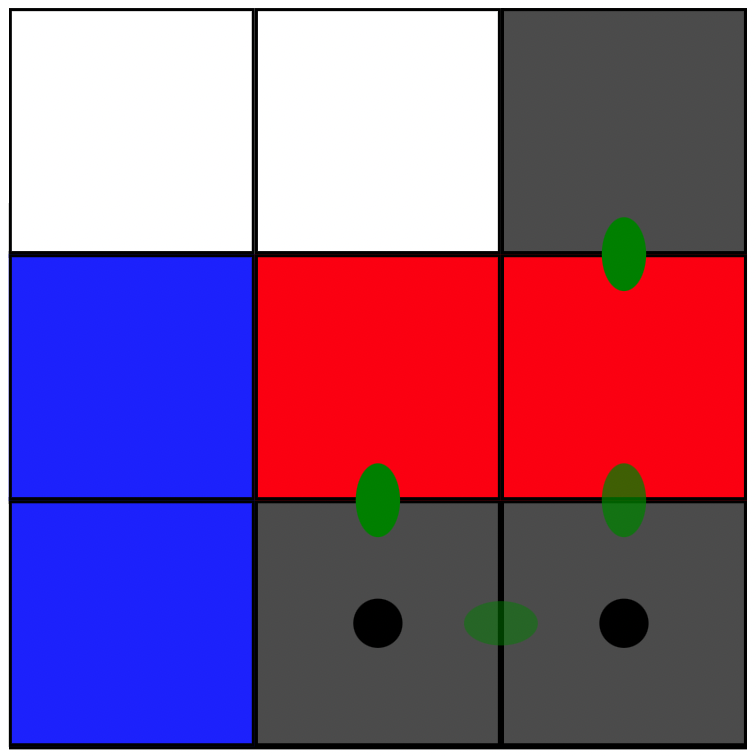
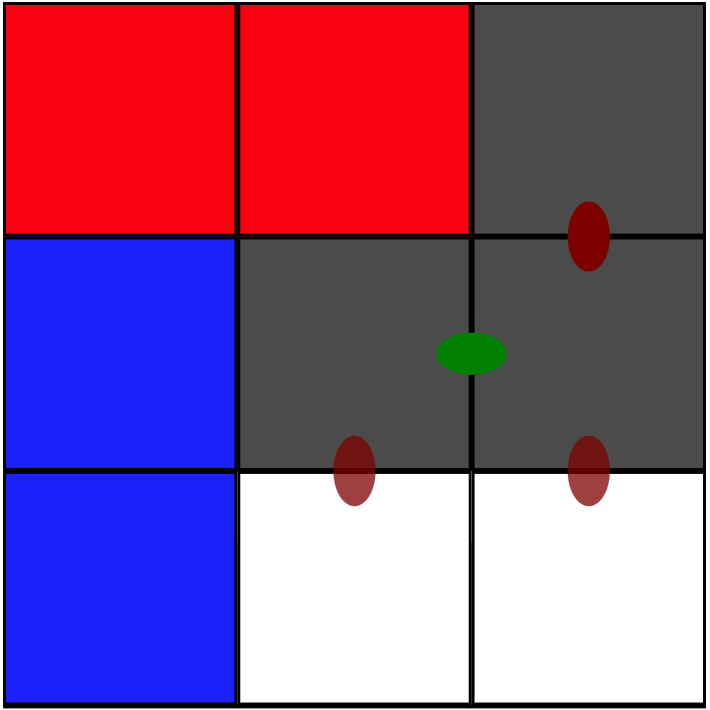
v5.0.0-alpha.181: Fix Arrows. Redo thumbnails.

diff --git a/src/components/units/AppGameBodyBoardRegular2DImages.vue b/src/components/units/AppGameBodyBoardRegular2DImages.vue
@@ -6,39 +6,36 @@
     :viewBox="'-2 -2 ' + (scaledWidth + 4) + ' ' + (scaledHeight + 4)" 
     :data-turn="richPositionData.turn">
 
-    <defs>
-      <template v-for="(value, i) in ['', 'win', 'draw', 'tie', 'lose']" :key="i">
-        <marker
-          :id="'app-game-board-default-arrow-marker' + (value ? '-' + value : '')"
-          viewBox="0 0 10 10"
-          refX="5"
-          refY="5"
-          markerWidth="4"
-          markerHeight="4"
-          orient="auto-start-reverse">
-            <path d="M 0 1 L 10 5 L 0 9 z" />
-        </marker>
-      </template>
-    </defs>
-
     <!-- Draw Background Image -->
     <image v-if="backgroundImagePath != ''"
-        :width="scaledWidth"
-        :height="scaledHeight"
-        :href="getImageSource(backgroundImagePath)" />
+      :width="scaledWidth"
+      :height="scaledHeight"
+      :href="getImageSource(backgroundImagePath)" />
+
+    <!-- Draw M-type (arrow) moves below pieces. -->
+    <g v-if="piecesOverArrows"> 
+      <g v-for="(arrow, i) in richPositionData.arrows "
+        :key="'arrow' + i">
+        <polyline
+          :points="formatArrowPolylinePoints(arrow, arrowThickness)"
+          :class="'app-game-board-default-arrow ' + getBoardMoveElementHintClass(arrow.move)"
+          @click="!isComputerTurn && store.dispatch(actionTypes.runMove, { move: arrow.move.str })"
+          :style="{
+            opacity: options.showNextMoveHints && options.showNextMoveDeltaRemotenesses ? arrow.move.hintOpacity : 1,
+          }"/>
+      </g>
+    </g>
 
     <!-- Draw Pieces on Board. -->
     <g v-for="(cell, i) in richPositionData.board"
-      :key="'cell' + i"
-      :set="(coords = getRegular2DBoardCenterCoords(i))">
-      <image
-            v-if="cell.piece != '-' && cell.piece != '*' && Object.keys(pieces).includes(cell.piece)"
-            :id="'piece' + i"
-            :x="(coords[0] - 0.5 * pieces[cell.piece].scale) * scaledWidth / backgroundGeometry[0]"
-            :y="(coords[1] - 0.5 * pieces[cell.piece].scale) * scaledWidth / backgroundGeometry[0]"
-            :width="(pieces[cell.piece].scale) * scaledWidth / backgroundGeometry[0]"
-            :height="(pieces[cell.piece].scale) * scaledWidth / backgroundGeometry[0]"
-            :href="getImageSource(pieces[cell.piece].image)" />
+      :key="'cell' + i">
+      <image v-if="cell.piece != '-' && cell.piece != '*' && Object.keys(pieces).includes(cell.piece)"
+        :id="'piece' + i"
+        :x="centers[i][0] - 0.5 * pieces[cell.piece].scale * scaledWidth / backgroundGeometry[0]"
+        :y="centers[i][1] - 0.5 * pieces[cell.piece].scale * scaledWidth / backgroundGeometry[0]"
+        :width="pieces[cell.piece].scale * scaledWidth / backgroundGeometry[0]"
+        :height="pieces[cell.piece].scale * scaledWidth / backgroundGeometry[0]"
+        :href="getImageSource(pieces[cell.piece].image)" />
     </g>
  
     <!-- Draw Foreground Image -->
@@ -49,62 +46,59 @@
 
     <!-- Draw A-type Moves. -->
     <g v-for="(cell, i) in richPositionData.board" 
-      :key="'cell' + i"
-      :set="(coords = getRegular2DBoardCenterCoords(i))">
+      :key="'cell' + i">
       <g v-if="cell.move">
 
         <!-- If no move token specified, use default move token (a circle). -->
-        <circle
-          v-if="cell.token == '-'"
-            :cx="coords[0] * scaledWidth / backgroundGeometry[0]"
-            :cy="coords[1] * scaledWidth / backgroundGeometry[0]"
-            :r="2"
-            :class="'app-game-board-default-token ' + (cell.move ? 'move ' : '') + getBoardMoveElementHintClass(cell.move)"
-            @click="!isComputerTurn && store.dispatch(actionTypes.runMove, { move: cell.move.str })"
-            :style="{ opacity: options.showNextMoveHints && options.showNextMoveDeltaRemotenesses ? cell.move.hintOpacity : 1 }">
+        <circle v-if="cell.token == '-'"
+            :cx="centers[i][0]"
+            :cy="centers[i][1]"
+            :r="defaultMoveTokenRadius"
+            :class="'app-game-board-token ' + (cell.move ? 'move ' : '') + getBoardMoveElementHintClass(cell.move)"
+            :style="'--xorigin: ' + centers[i][0] + 'px ' + centers[i][1] + 'px; opacity: ' + (options.showNextMoveHints && options.showNextMoveDeltaRemotenesses ? cell.move.hintOpacity : 1) + ';'"
+            @click="!isComputerTurn && store.dispatch(actionTypes.runMove, { move: cell.move.str })">
               {{ cell.token }}
         </circle>
         
         <!-- Else use the svg corresponding to the move token. If no svg is mapped to the character, skip. -->
-        <image
-          v-else-if="Object.keys(pieces).includes(cell.token)"
-            :x="(coords[0] - 0.5 * pieces[cell.token].scale) * scaledWidth / backgroundGeometry[0]"
-            :y="(coords[1] - 0.5 * pieces[cell.token].scale) * scaledWidth / backgroundGeometry[0]"
-            :width="(pieces[cell.token].scale) * scaledWidth / backgroundGeometry[0]"
-            :height="(pieces[cell.token].scale) * scaledWidth / backgroundGeometry[0]"
+        <image v-else-if="Object.keys(pieces).includes(cell.token)"
+            :x="centers[i][0] - 0.5 * pieces[cell.token].scale * scaledWidth / backgroundGeometry[0]"
+            :y="centers[i][1] - 0.5 * pieces[cell.token].scale * scaledWidth / backgroundGeometry[0]"
+            :width="pieces[cell.token].scale * scaledWidth / backgroundGeometry[0]"
+            :height="pieces[cell.token].scale * scaledWidth / backgroundGeometry[0]"
             :href="getImageSource(pieces[cell.token].image)"
-            :class="'app-game-board-image-token ' + (cell.move ? 'move ' : '') + getBoardMoveElementHintClass(cell.move)"
-            :style="'--xorigin: ' + (coords[0] * scaledWidth / backgroundGeometry[0]) + 'px ' + (coords[1] * scaledWidth / backgroundGeometry[0]) + 'px; opacity: ' + (options.showNextMoveHints && options.showNextMoveDeltaRemotenesses ? cell.move.hintOpacity : 1) + ';'"
+            :class="'app-game-board-token ' + (cell.move ? 'move ' : '') + getBoardMoveElementHintClass(cell.move)"
+            :style="'--xorigin: ' + centers[i][0] + 'px ' + centers[i][1] + 'px; opacity: ' + (options.showNextMoveHints && options.showNextMoveDeltaRemotenesses ? cell.move.hintOpacity : 1) + ';'"
             @click="!isComputerTurn && store.dispatch(actionTypes.runMove, { move: cell.move.str })">
               {{ cell.token }}
         </image>
       </g>
-      
     </g>
 
-    <!-- Draw M-type (arrow) moves. -->
-    <g v-for="(arrow, i) in richPositionData.arrows"
-      :key="'arrow' + i">
-      <polyline
-        :points="formatArrowPolylinePoints(arrow, scaledWidth / backgroundGeometry[0])"
-        :class="'app-game-board-default-arrow ' + getBoardMoveElementHintClass(arrow.move)"
-        @click="!isComputerTurn && store.dispatch(actionTypes.runMove, { move: arrow.move.str })"
-        :style="{
-          opacity: options.showNextMoveHints && options.showNextMoveDeltaRemotenesses ? arrow.move.hintOpacity : 1,
-        }"
-        :marker-end="getHintArrowMarker(arrow.move)" />
+    <!-- Draw M-type (arrow) moves on top of pieces. -->
+    <g v-if="!piecesOverArrows"> 
+      <g v-for="(arrow, i) in richPositionData.arrows "
+        :key="'arrow' + i">
+        <polyline
+          :points="formatArrowPolylinePoints(arrow, arrowThickness)"
+          :class="'app-game-board-default-arrow ' + getBoardMoveElementHintClass(arrow.move)"
+          @click="!isComputerTurn && store.dispatch(actionTypes.runMove, { move: arrow.move.str })"
+          :style="{
+            opacity: options.showNextMoveHints && options.showNextMoveDeltaRemotenesses ? arrow.move.hintOpacity : 1,
+          }"/>
+      </g>
     </g>
 
-    <!-- Draw L-type (arrow) moves. -->
+    <!-- Draw L-type (line) moves. -->
     <g v-for="(line, i) in richPositionData.lines"
       :key="'line' + i">
       <line
-        :x1="centers[line.from][0] * scaledWidth / backgroundGeometry[0]"
-        :y1="centers[line.from][1] * scaledWidth / backgroundGeometry[0]"
-        :x2="centers[line.to][0] * scaledWidth / backgroundGeometry[0]"
-        :y2="centers[line.to][1] * scaledWidth / backgroundGeometry[0]"
+        :x1="centers[line.from][0]"
+        :y1="centers[line.from][1]"
+        :x2="centers[line.to][0]"
+        :y2="centers[line.to][1]"
         :stroke-linecap="'round'"
-        :stroke-width="0.9"
+        :stroke-width="lineWidth"
         :class="'app-game-board-default-arrow ' + getBoardMoveElementHintClass(line.move)"
         @click="!isComputerTurn && store.dispatch(actionTypes.runMove, { move: line.move.str })"
         :style="{
@@ -169,7 +163,11 @@
   const imagePathPrefix = "../../models/images/svg/";
   const backgroundImagePath = theTheme.backgroundImage || "";
   const foregroundImagePath = theTheme.foregroundImage || "";
-  const centers = theTheme.centers;
+  const piecesOverArrows = theTheme.piecesOverArrows || false;
+  const arrowThickness = (theTheme.arrowThickness * scaledWidth / backgroundGeometry[0] / 2) || 0.75;
+  const lineWidth = theTheme.lineWidth || 0.9;
+  const defaultMoveTokenRadius = (theTheme.defaultMoveTokenRadius * scaledWidth / backgroundGeometry[0]) || 2;
+  const centers = theTheme.centers.map((a: [number, number]) => a.map((b: number) => b * scaledWidth / backgroundGeometry[0]));
   const pieces = theTheme.pieces;
   // Probably don't want ot reimport every time.
   const gimages = import.meta.globEager("../../models/images/svg/**/*");
@@ -222,19 +220,15 @@
         }
       }
       
-      const getRegular2DBoardCenterCoords = (i: number): [number, number] => {
-        return centers[i];
-      };
-      
       const computeSquaredLength = (ax: number, ay: number, bx: number, by: number): number => {
         return Math.pow(ax - bx, 2) + Math.pow(ay - by, 2);
       };
 
       const compareArrowSquaredLength = (a: GDefaultRegular2DBoardArrow, b: GDefaultRegular2DBoardArrow): number => {
-        const aFromCoords = getRegular2DBoardCenterCoords(a.from);
-        const aToCoords = getRegular2DBoardCenterCoords(a.to);
-        const bFromCoords = getRegular2DBoardCenterCoords(b.from);
-        const bToCoords = getRegular2DBoardCenterCoords(b.to);
+        const aFromCoords = centers[a.from];
+        const aToCoords = centers[a.to];
+        const bFromCoords = centers[b.from];
+        const bToCoords = centers[b.to];
         return computeSquaredLength(bFromCoords[0], bFromCoords[1], bToCoords[0], bToCoords[1]) - computeSquaredLength(aFromCoords[0], aFromCoords[1], aToCoords[0], aToCoords[1]);
       };
 
@@ -254,34 +248,34 @@
     }
   });
 
-  const getRegular2DBoardCenterCoords = (i: number): [number, number] => {
-    return centers[i];
-  };
-
-  const formatArrowPolylinePoints = (arrow: GDefaultRegular2DBoardArrow, multiplier: number, startOffset: number = 2, endOffset: number = 3): string => {
-    let fromCoords = getRegular2DBoardCenterCoords(arrow.from).map((a: number) => (a) * multiplier);
-    let toCoords = getRegular2DBoardCenterCoords(arrow.to).map((a: number) => (a) * multiplier);
-    const dir = [toCoords[0] - fromCoords[0], toCoords[1] - fromCoords[1]];
+  const formatArrowPolylinePoints = (arrow: GDefaultRegular2DBoardArrow, thickness: number = 0.75, startOffset: number = 2, endOffset: number = 2): string => {
+    let fromCoords = centers[arrow.from].map((a: number) => (a));
+    let coords3 = centers[arrow.to].map((a: number) => (a));
+    const dir = [coords3[0] - fromCoords[0], coords3[1] - fromCoords[1]];
+    const perpdir = [dir[1], -dir[0]];
     const length = Math.sqrt(Math.pow(dir[0], 2) + Math.pow(dir[1], 2));
+    let thickNorm = thickness / length;
     const startOffsetPct = startOffset / length;
     const endOffsetPct = endOffset / length;
     fromCoords[0] += dir[0] * startOffsetPct;
     fromCoords[1] += dir[1] * startOffsetPct;
-    toCoords[0] -= dir[0] * endOffsetPct;
-    toCoords[1] -= dir[1] * endOffsetPct;
-    return `${fromCoords[0]},${fromCoords[1]} ` + `${toCoords[0]},${toCoords[1]}`;
+    coords3[0] -= dir[0] * endOffsetPct;
+    coords3[1] -= dir[1] * endOffsetPct;
+    const arrowheadHeight = 3 * thickNorm * Math.tan(0.959931); // 55 degrees
+    const midCoords = [coords3[0] - dir[0] * arrowheadHeight, coords3[1] - dir[1] * arrowheadHeight];
+    const coords0 = [fromCoords[0] - perpdir[0] * thickNorm, fromCoords[1] - perpdir[1] * thickNorm];
+    const coords6 = [fromCoords[0] + perpdir[0] * thickNorm, fromCoords[1] + perpdir[1] * thickNorm];
+
+    const coords1 = [midCoords[0] - perpdir[0] * thickNorm, midCoords[1] - perpdir[1] * thickNorm];
+    const coords2 = [midCoords[0] - 3 * perpdir[0] * thickNorm, midCoords[1] - 3 * perpdir[1] * thickNorm];
+    const coords5 = [midCoords[0] + perpdir[0] * thickNorm, midCoords[1] + perpdir[1] * thickNorm];
+    const coords4 = [midCoords[0] + 3 * perpdir[0] * thickNorm, midCoords[1] + 3 * perpdir[1] * thickNorm];
+
+    return `${coords0[0]},${coords0[1]} ${coords1[0]},${coords1[1]} ${coords2[0]},${coords2[1]} ${coords3[0]},${coords3[1]} ${coords4[0]},${coords4[1]} ${coords5[0]},${coords5[1]} ${coords6[0]},${coords6[1]}`;
   };
 
   const getBoardMoveElementHintClass = (move?: GDefaultRegular2DMove): string => (move && options.value.showNextMoveHints ? "hint-" + move.hint : "");
   
-  const getHintArrowMarker = (move?: GDefaultRegular2DMove): string => {
-    if (!move) return "";
-    if (options.value.showNextMoveHints) {
-      return `url(#app-game-board-default-arrow-marker-${move.hint})`;
-    }
-    return "url(#app-game-board-default-arrow-marker)";
-  };
-
 </script>
 
 <style lang="scss" scoped>
@@ -297,15 +291,6 @@
     }
     100% {
       stroke-width: 1.5;
-    }
-  }
-
-  @keyframes pulsing-circle {
-    0% {
-      r: 2;
-    }
-    100% {
-      r: 3;
     }
   }
 
@@ -352,7 +337,7 @@
     }
   }
 
-  .app-game-board-image-token {
+  .app-game-board-token {
     cursor: default;
     transform-origin: var(--xorigin);
     
@@ -387,52 +372,35 @@
     }
   }
 
-  #app-game-board-default-arrow-marker {
+  .app-game-board-default-arrow {
+    stroke: var(--primaryColor);
     fill: var(--primaryColor);
 
     [data-turn="A"] & {
+      stroke: var(--turn1Color);
       fill: var(--turn1Color);
     }
     [data-turn="B"] & {
-      fill: var(--turn2Color);
-    }
-
-    &-win {
-      fill: var(--winColor);
-    }
-    &-draw {
-      fill: var(--drawColor);
-    }
-    &-tie {
-      fill: var(--tieColor);
-    }
-    &-lose {
-      fill: var(--loseColor);
-    }
-  }
-
-  .app-game-board-default-arrow {
-    stroke: var(--primaryColor);
-
-    [data-turn="A"] & {
-      stroke: var(--turn1Color);
-    }
-    [data-turn="B"] & {
       stroke: var(--turn2Color);
+      fill: var(--turn2Color);
     }
 
     &.hint- {
       &win {
         stroke: var(--winColor);
+        fill: var(--winColor);
       }
       &draw {
         stroke: var(--drawColor);
+        fill: var(--drawColor);
       }
       &tie {
         stroke: var(--tieColor);
+        fill: var(--tieColor);
       }
       &lose {
         stroke: var(--loseColor);
+        fill: var(--loseColor);
       }
     }
 
@@ -443,7 +411,6 @@
       animation-timing-function: ease-in-out;
       animation-direction: alternate;
     }
-
   }
 
   svg {

diff --git a/src/models/datas/defaultApp.ts b/src/models/datas/defaultApp.ts
@@ -9,7 +9,7 @@ export const defaultPreferences: Types.Preferences = {
     theme: "light",
     locale: "en",
     fallbackLocale: "en",
-    rootFontSize: "17px",
+    rootFontSize: "15px",
 };
 
 export const defaultDataSources: Types.DataSources = {
